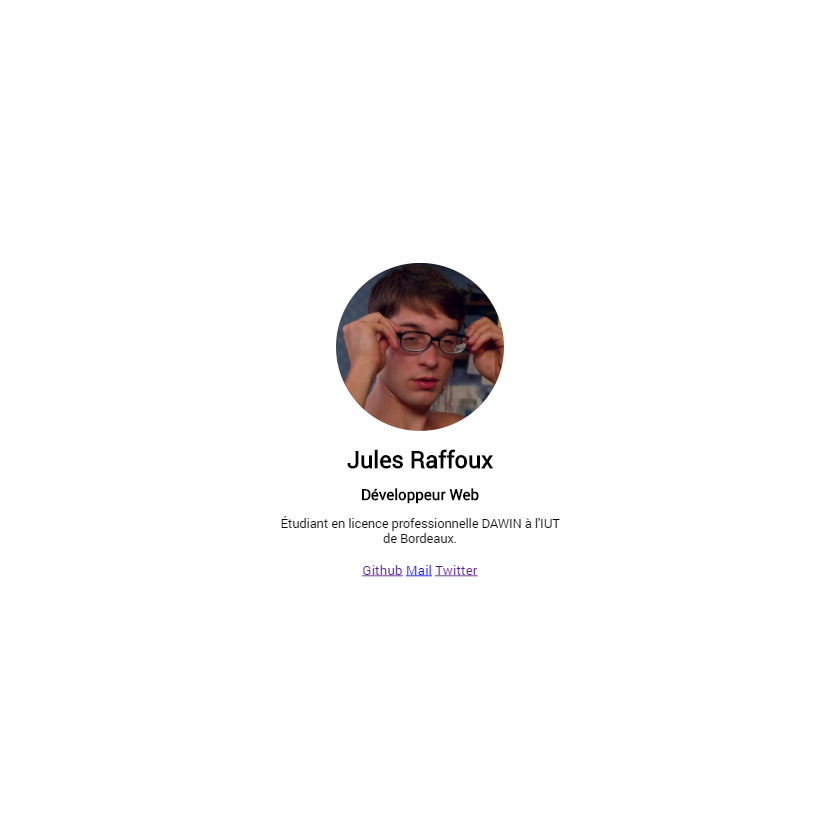
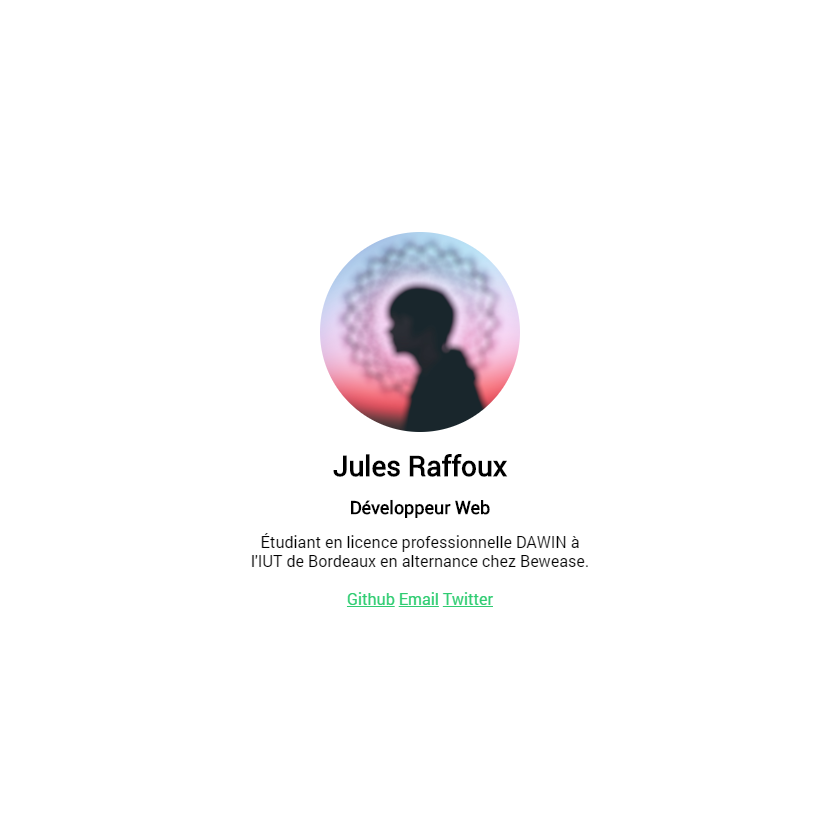
Change profile picture

Changed region(s): [[0.3095, 0.2786, 0.7119, 0.7429]]

diff --git a/_layouts/home.html b/_layouts/home.html
@@ -3,7 +3,7 @@ layout: default
 ---
 
 <main class="profile">
-    <img src="{{ "/assets/img/peter.jpg" }}" alt="{{- site.title -}}">
+    <img src="{{ "/assets/img/ember_blurred.jpg" }}" alt="{{- site.title -}}">
 
     <h1>{{- site.title -}}</h1>
     <h2>{{- site.short_description -}}</h2>
